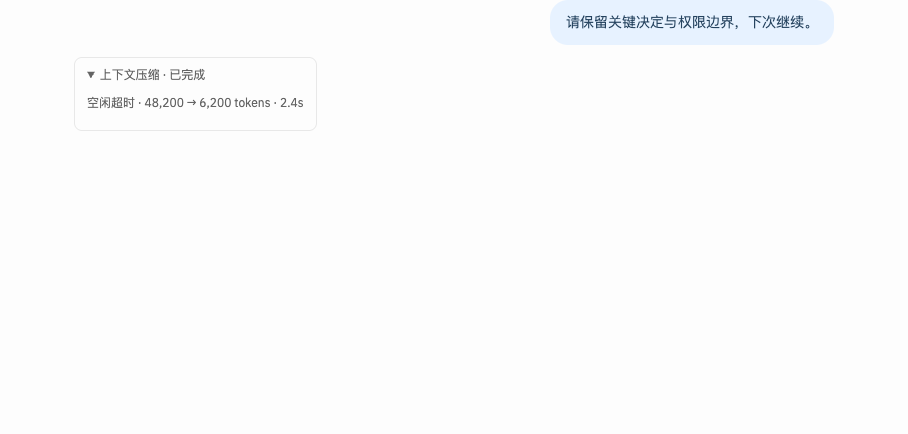
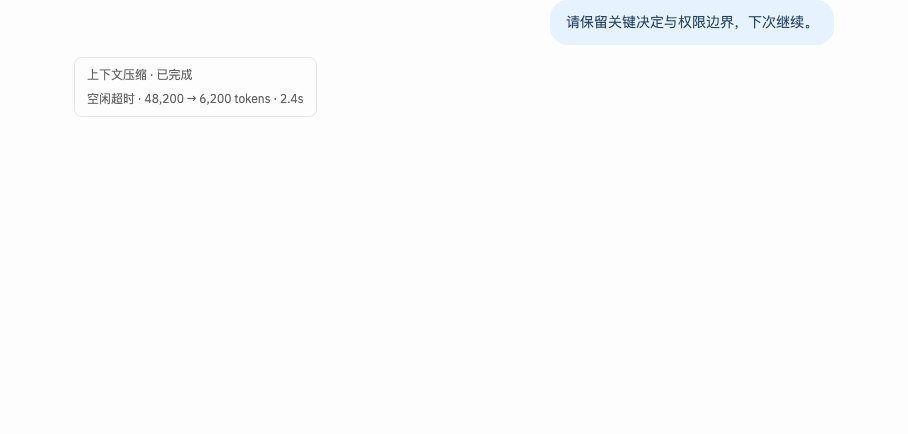
Display compaction details without folding

Changed region(s): [[0.0925, 0.1498, 0.3392, 0.2696]]

diff --git a/web/src/styles.css b/web/src/styles.css
@@ -738,6 +738,4 @@ pot-resource.is-expanded .resource-text{max-height:75vh}
 .provider-summary-card{margin:0 0 14px;}.provider-summary-card .provider-summary{margin:0;min-height:52px;}.provider-unavailable .row-info{color:var(--muted);}.provider-allowances{border-top:1px solid var(--divider);margin-top:12px;padding-top:10px;}.provider-allowances>summary{cursor:pointer;font-size:13px;color:var(--muted);}.provider-allowance-content{padding-top:10px;}.provider-allowance-content>p{margin:6px 0;}.provider-allowance-account{padding:10px 0;border-top:1px solid var(--divider);margin-top:10px;}.provider-allowance-account p{margin:4px 0;}.provider-allowance-window{display:grid;grid-template-columns:minmax(0,1fr) auto;gap:6px 12px;margin:12px 0;overflow-wrap:anywhere;}.provider-allowance-window progress,.provider-allowance-window small{grid-column:1/-1;}.provider-allowance-window progress{width:100%;height:6px;accent-color:var(--primary);}.provider-allowance-content>.control{margin:6px 0;}
 
 .compact-record{max-width:100%;padding:8px 12px;border:1px solid var(--divider);border-radius:8px;color:var(--muted);font-size:12px;overflow-wrap:anywhere;}
-.compact-record>summary{cursor:pointer;}
-.compact-details{margin:10px 0;}
-.compact-record .inline-error:empty{display:none;}
+.compact-details{margin-top:6px;}

diff --git a/docs/agent-context.md b/docs/agent-context.md
@@ -179,7 +179,7 @@ saved in the checkpoint; normal requests restore ordinary tool policy. No cache
 flush is sent: replacing history changes the prefix, so the next normal request
 builds a smaller cache. Actual provider usage determines cache hits.
 
-The transcript exposes a foldable compact operation, not a synthetic tool call.
+The transcript displays the compact operation directly, without a disclosure control.
 It includes trigger, status, elapsed time and estimated before/after size. Its
 private diagnostic record retains request/response evidence and links to the
 actual metered attempts for investigation; usage is never added twice. Chat and
